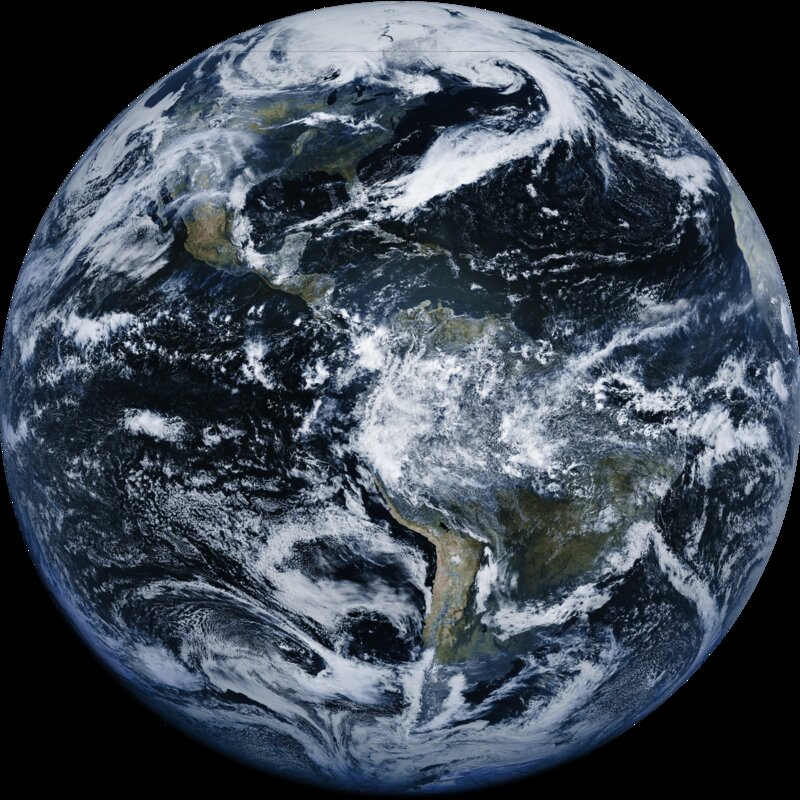
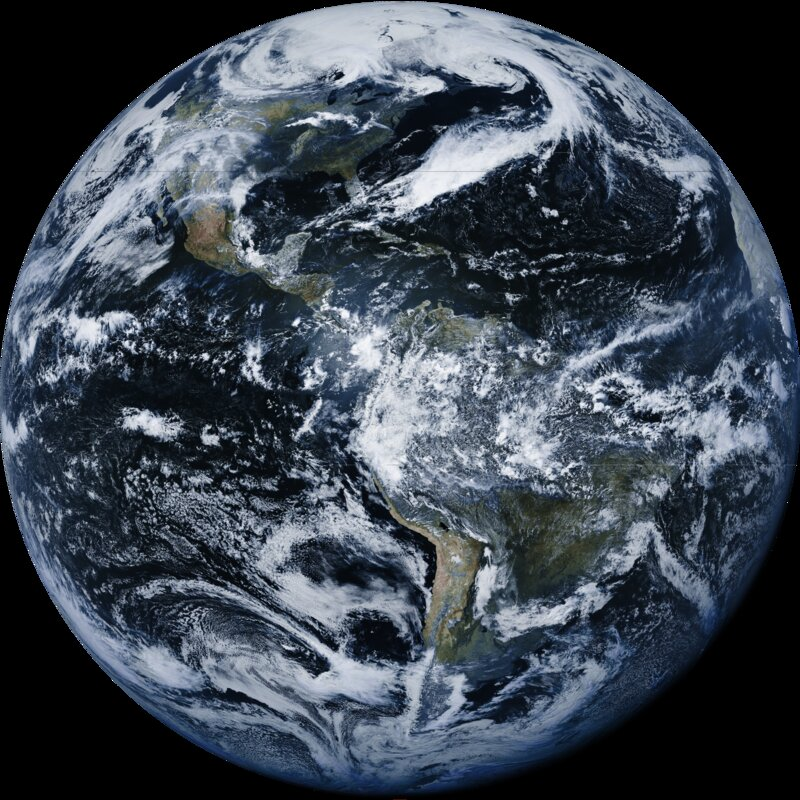
Update: 2026-05-04 18:00 UTC

Changed region(s): [[0.0, 0.0312, 1.0, 1.0]]

diff --git a/index.html b/index.html
@@ -75,7 +75,7 @@
                 <div class="timestamp" id="timestamp">Loading...</div>
             </div>
             <a class="img-link" onclick="openLightbox()" href="javascript:void(0)">
-                <img src="latest.jpg?v=1777914002" alt="Latest GOES-19 Full Disk Image" id="satimage">
+                <img src="latest.jpg?v=1777917601" alt="Latest GOES-19 Full Disk Image" id="satimage">
                 <div class="img-overlay">View full screen</div>
             </a>
             <div class="stats-bar">
@@ -139,7 +139,7 @@
     <!-- Lightbox -->
     <div class="lightbox" id="lightbox" onclick="closeLightbox()">
         <div class="lightbox-close" onclick="closeLightbox()">&#x2715;</div>
-        <img src="latest.jpg?v=1777914002" alt="GOES-19 Full Disk" id="lightbox-img">
+        <img src="latest.jpg?v=1777917601" alt="GOES-19 Full Disk" id="lightbox-img">
     </div>
 
     <script>
